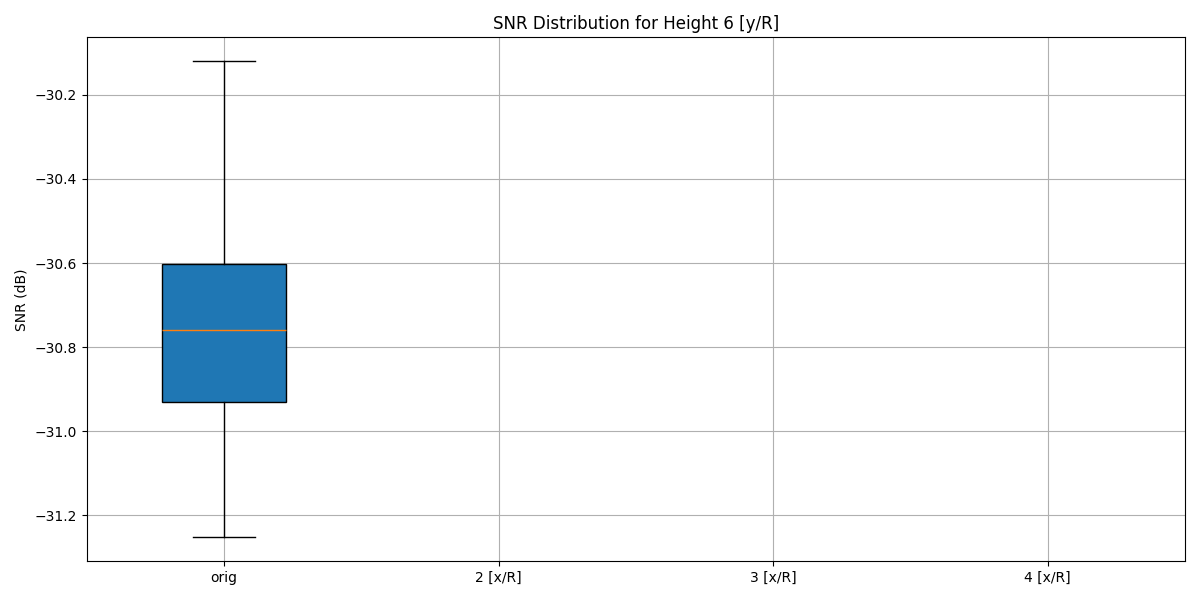
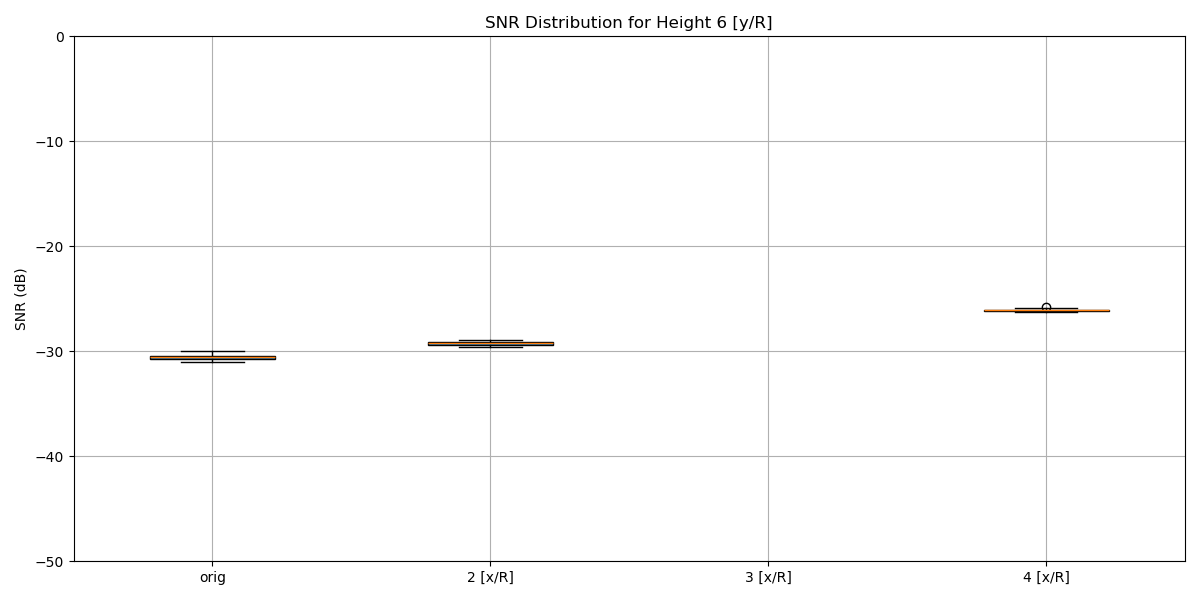
editeed snr calc

diff --git a/SNR_PLOTTER.py b/SNR_PLOTTER.py
@@ -5,49 +5,58 @@ from scipy.interpolate import griddata
 import matplotlib.pyplot as plt
 from mpl_toolkits.mplot3d import Axes3D
 
-
 def calculate_power_spectra(signal):
     """Calculate the power spectrum of a signal using FFT."""
     fft_signal = np.fft.fft(signal)
     power_spectrum = np.abs(fft_signal) ** 2
     return power_spectrum
 
-def calculate_snr(clean_signal, noisy_signal):
-    """Calculate the average spectral SNR."""
-    min_length = min(len(clean_signal), len(noisy_signal))
-    clean_signal = clean_signal[:min_length]
+def calculate_snr(clean_signals, noisy_signal):
+    """Calculate the average spectral SNR using multiple clean signals."""
+    min_length = min(min(len(sig) for sig in clean_signals), len(noisy_signal))
     noisy_signal = noisy_signal[:min_length]
-    
-    power_spectrum_clean = calculate_power_spectra(clean_signal)
-    power_spectrum_noisy = calculate_power_spectra(noisy_signal)
+    snrs = []
+    for clean_signal in clean_signals:
+        clean_signal = clean_signal[:min_length]
+        power_spectrum_clean = calculate_power_spectra(clean_signal)
+        power_spectrum_noisy = calculate_power_spectra(noisy_signal)
+        
+        # Avoid division by zero and negative values in SNR computation
+        power_spectrum_noisy[power_spectrum_noisy <= 0] = 1e-10
+        power_spectrum_clean[power_spectrum_clean <= 0] = 1e-10
 
-    # Avoid division by zero and negative values in SNR computation
-    power_spectrum_noisy[power_spectrum_noisy <= 0] = 1e-10
-    power_spectrum_clean[power_spectrum_clean <= 0] = 1e-10
+        snr_spectrum = 10 * np.log10(power_spectrum_clean / power_spectrum_noisy)
+        snrs.append(np.mean(snr_spectrum))
+    return np.mean(snrs)
 
-    snr_spectrum = 10 * np.log10(power_spectrum_clean / power_spectrum_noisy)
-    mean_snr = np.mean(snr_spectrum)
-    return mean_snr
-
-def calculate_all_snrs(clean_signal_path, noisy_signals_directory):
-    """Calculate SNRs for all .wav files in a given directory."""
+def calculate_all_snrs(clean_signals_directory, noisy_signals_directory):
+    """Calculate SNRs for all .wav files in a given directory with multiple clean signals."""
     snrs = []
     filenames = []
 
-    clean_signal, sr_clean = librosa.load(clean_signal_path, sr=None)
+    clean_signals = []
+    for clean_filename in os.listdir(clean_signals_directory):
+        if clean_filename.endswith(".wav"):
+            full_clean_path = os.path.join(clean_signals_directory, clean_filename)
+            try:
+                clean_signal, sr_clean = librosa.load(full_clean_path, sr=None)
+                clean_signals.append(clean_signal)
+            except Exception as e:
+                print(f"Failed to process {clean_filename}: {e}")
+
     for filename in os.listdir(noisy_signals_directory):
         if filename.endswith(".wav"):
             full_path = os.path.join(noisy_signals_directory, filename)
             try:
                 noisy_signal, sr_noisy = librosa.load(full_path, sr=None)
-                snr = calculate_snr(clean_signal, noisy_signal)
+                snr = calculate_snr(clean_signals, noisy_signal)
                 snrs.append(snr)
                 filenames.append(filename)
             except Exception as e:
                 print(f"Failed to process {filename}: {e}")
     return snrs, filenames
 
-def plot_all_snrs(all_snrs, labels, title, show_plot=False):
+def plot_all_snrs(all_snrs, labels, title, show_plot=False, hover=False):
     """Plot all SNR distributions on a single axis with custom x-axis labels."""
     plt.figure(figsize=(12, 6))  # Adjust size as needed
     # Plot all SNRs on the same axes
@@ -58,15 +67,19 @@ def plot_all_snrs(all_snrs, labels, title, show_plot=False):
     plt.xticks(positions, labels)  # Set custom labels for each boxplot
     plt.title(title)
     plt.ylabel("SNR (dB)")
+    plt.ylim(-50, 0)
     plt.grid(True)
 
     plt.tight_layout()
-    plt.savefig("SNR_Plots/" + title.replace(' ', '_').replace('/', '-') + ".png")
+    if hover:
+        plt.savefig("SNR_Plots_Hover/" + title.replace(' ', '_').replace('/', '-') + ".png")
+    else:
+        plt.savefig("SNR_Plots/" + title.replace(' ', '_').replace('/', '-') + ".png")
     if show_plot:
         plt.show()
     plt.close()
 
-def plot_snr_contour(snr_dict, title, show_plot=False):
+def plot_snr_contour(snr_dict, title, show_plot=False, hover=False):
     """Plot a 2D contour map of mean SNR values with smooth interpolation."""
     # Create sorted lists of heights and custom mapping for distances with 'orig' represented by a specific value
     heights = sorted(snr_dict['orig'].keys())
@@ -108,13 +121,15 @@ def plot_snr_contour(snr_dict, title, show_plot=False):
     # Optional: Add contour lines to highlight levels
     plt.contour(grid_x, grid_y, grid_z, levels=20, colors='k', linestyles='solid', linewidths=0.3)
     
-    plt.savefig("SNR_Plots/contour_plot.png")
+    if hover:
+        plt.savefig("SNR_Plots_Hover/contour_plot_hover.png")
+    else:
+        plt.savefig("SNR_Plots/contour_plot.png")
     if show_plot:
         plt.show()
     plt.close()
 
-
-def plot_snr_surface(snr_dict, title, show_plot=False):
+def plot_snr_surface(snr_dict, title, show_plot=False, hover=False):
     """Plot a 3D surface map of mean SNR values with smooth interpolation."""
     # Create sorted lists of heights and custom mapping for distances with 'orig' represented by a specific value
     heights = sorted(snr_dict['orig'].keys())
@@ -155,12 +170,65 @@ def plot_snr_surface(snr_dict, title, show_plot=False):
     ax.set_ylabel('Height [y/R]')
     ax.set_zlabel('Mean SNR (dB)')
 
-    plt.savefig("SNR_Plots/3D_surface_plot.png")
+    if hover:
+        plt.savefig("SNR_Plots_Hover/3D_surface_plot_hover.png")
+    else:
+        plt.savefig("SNR_Plots/3D_surface_plot.png")
     if show_plot:
         plt.show()
     plt.close()
 
 if __name__ == "__main__":
+
+    # hover stuff
+
+    heights = [0, 1, 2, 3, 4, 5]  # Heights to process
+    distances = [2, 3, 4]
+    labels_heights = [f"{height} [y/R]" for height in heights]  # Custom labels for each boxplot
+    labels_distances = ['orig'] + [f"{distance} [x/R]" for distance in distances]
+
+    snr_dict = {distance: {height: [] for height in heights} for distance in distances}
+    snr_dict['orig'] = {height: [] for height in heights}
+
+    clean_signal_directory = "Final_RECORDINGS/Final_Recordings_Hover/Clean_Keywords/"
+
+    for height in heights:
+        # first process original arm length
+        # noisy_signals_directory = f"Final_RECORDINGS/Final_Recordings_SNR/Height_{height}/Original_Arm/"
+        noisy_signals_directory = f"Final_RECORDINGS/Final_Recordings_Hover/Height_{height}/Original_Arm/"
+        snrs, filenames = calculate_all_snrs(clean_signal_directory, noisy_signals_directory)
+        snr_dict['orig'][height] = snrs
+        print(f"Processed {len(snrs)} files for height {height} and original arm length")
+        for distance in distances:
+            try:
+                noisy_signals_directory = f"Final_RECORDINGS/Final_Recordings_Hover/Height_{height}/Arm_{distance}_Height_{height}/"
+                snrs, filenames = calculate_all_snrs(clean_signal_directory, noisy_signals_directory)
+                snr_dict[distance][height] = snrs
+                print(f"Processed {len(snrs)} files for height {height} and arm length {distance}")
+            except Exception as e:
+                print(f"Failed to process height {height} and arm length {distance}: {e}")
+
+    # Now we plot the SNR distributions
+    # First, plot the SNR distributions for each height, varying arm length
+
+    for height in heights:
+        snrs = [snr_dict['orig'][height]] + [snr_dict[distance][height] for distance in distances]
+        plot_all_snrs(snrs, labels_distances, f"SNR Distribution for Height {height} [y/R]", hover=True)
+    
+    # Next, plot the SNR distributions for each arm length, varying height
+    # first the original arm length
+    snrs = [snr_dict['orig'][height] for height in heights]
+    plot_all_snrs(snrs, labels_heights, f"SNR Distribution for Original Arm Length x/R")
+    for distance in distances:
+        snrs = [snr_dict[distance][height] for height in heights]
+        plot_all_snrs(snrs, labels_heights, f"SNR Distribution for Arm Length {distance} [x/R]", hover=True)
+
+    # Finally, plot a heatmap of mean SNR values
+    plot_snr_contour(snr_dict, "Mean SNR Values for Different Arm Lengths and Heights", hover=True)
+    plot_snr_surface(snr_dict, "Mean SNR Values for Different Arm Lengths and Heights", hover=True)
+
+    #non-hover stuff
+
     heights = [0, 1, 2, 3, 4, 5, 6, 7]  # Heights to process
     distances = [2, 3, 4]
     labels_heights = [f"{height} [y/R]" for height in heights]  # Custom labels for each boxplot
@@ -169,18 +237,19 @@ if __name__ == "__main__":
     snr_dict = {distance: {height: [] for height in heights} for distance in distances}
     snr_dict['orig'] = {height: [] for height in heights}
 
-    clean_signal_path = "Final_RECORDINGS/Final_Recordings_SNR/Clean_Keywords/No_Shroud/Clean.clean.1.wav.4t42velb.ingestion-54fbc688b-qbw86.s9.wav"
+    clean_signal_directory = "Final_RECORDINGS/Final_Recordings_SNR/Clean_Keywords/No_Shroud/"
 
     for height in heights:
         # first process original arm length
+        # noisy_signals_directory = f"Final_RECORDINGS/Final_Recordings_SNR/Height_{height}/Original_Arm/"
         noisy_signals_directory = f"Final_RECORDINGS/Final_Recordings_SNR/Height_{height}/Original_Arm/"
-        snrs, filenames = calculate_all_snrs(clean_signal_path, noisy_signals_directory)
+        snrs, filenames = calculate_all_snrs(clean_signal_directory, noisy_signals_directory)
         snr_dict['orig'][height] = snrs
         print(f"Processed {len(snrs)} files for height {height} and original arm length")
         for distance in distances:
             try:
-                noisy_signals_directory = f"Final_RECORDINGS/Height_{height}/Arm_{distance}_Height_{height}/"
-                snrs, filenames = calculate_all_snrs(clean_signal_path, noisy_signals_directory)
+                noisy_signals_directory = f"Final_RECORDINGS/Final_Recordings_SNR/Height_{height}/Arm_{distance}_Height_{height}/"
+                snrs, filenames = calculate_all_snrs(clean_signal_directory, noisy_signals_directory)
                 snr_dict[distance][height] = snrs
                 print(f"Processed {len(snrs)} files for height {height} and arm length {distance}")
             except Exception as e:
@@ -203,4 +272,4 @@ if __name__ == "__main__":
 
     # Finally, plot a heatmap of mean SNR values
     plot_snr_contour(snr_dict, "Mean SNR Values for Different Arm Lengths and Heights")
-    plot_snr_surface(snr_dict, "Mean SNR Values for Different Arm Lengths and Heights", show_plot=True)
+    plot_snr_surface(snr_dict, "Mean SNR Values for Different Arm Lengths and Heights")
